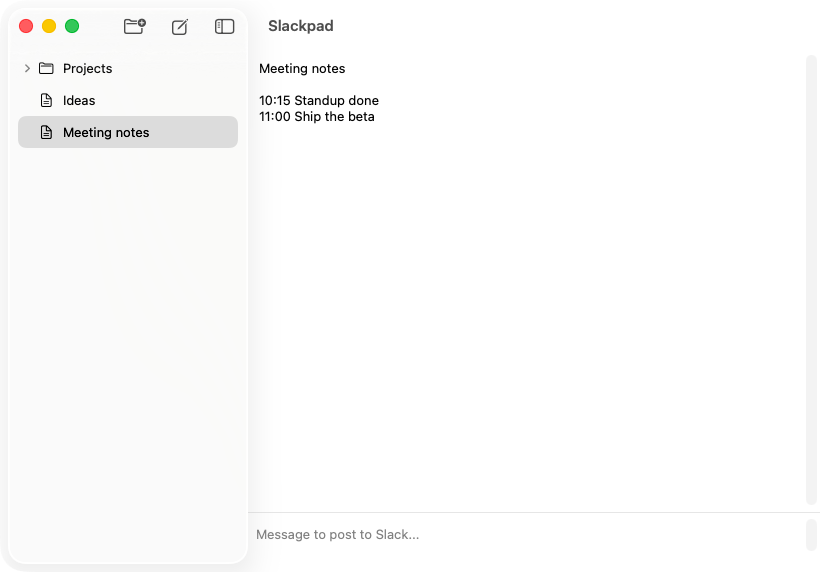
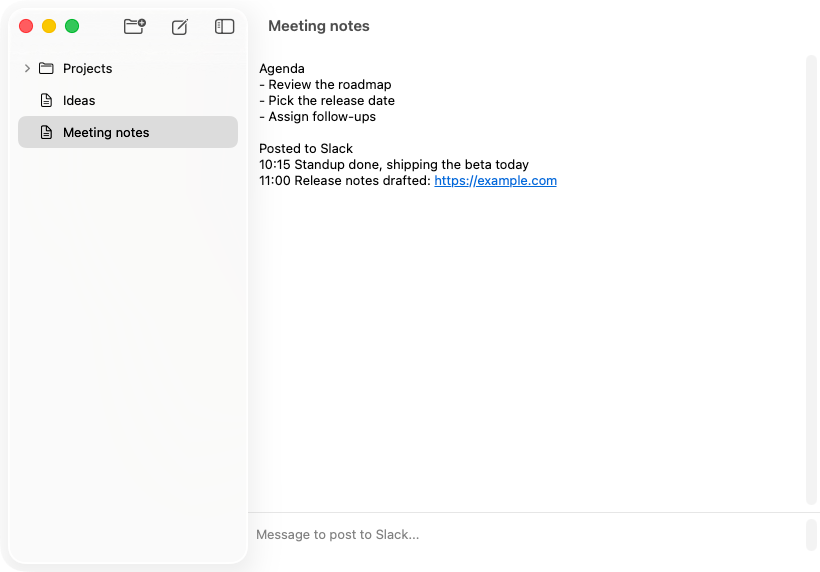
Refresh the main screenshot for the new naming model
The window title now shows the filename and the body no longer repeats it as
a heading line. Update the ContentView preview to a filename-titled preview
with structured demo content (heading, list, heading, Slack posts) and
regenerate docs/images/main.png to match.

Claude-Session: https://claude.ai/code/session_014pjqgobrTk5fwUCzDMKx6i

Changed region(s): [[0.3049, 0.0892, 0.6707, 0.3269], [0.3049, 0.0297, 0.4573, 0.0594]]

diff --git a/Slackpad/ContentView.swift b/Slackpad/ContentView.swift
@@ -39,18 +39,27 @@ struct ContentView: View {
     }
 }
 
-#Preview("Slackpad") {
+#Preview("Meeting notes") {
     let model = AppModel()
     let manager = FileManager.default
     let dir = URL(fileURLWithPath: NSTemporaryDirectory())
         .appendingPathComponent("SlackpadPreview-\(UUID().uuidString)")
     let projects = dir.appendingPathComponent("Projects")
     try? manager.createDirectory(at: projects, withIntermediateDirectories: true)
-    try? "Meeting notes\n\n10:15 Standup done\n11:00 Ship the beta"
-        .write(to: dir.appendingPathComponent("Meeting notes.txt"), atomically: true, encoding: .utf8)
-    try? "Ideas\n\n- keep notes as plain text\n- post to Slack while writing"
+    try? """
+    Agenda
+    - Review the roadmap
+    - Pick the release date
+    - Assign follow-ups
+
+    Posted to Slack
+    10:15 Standup done, shipping the beta today
+    11:00 Release notes drafted: https://example.com
+    """
+    .write(to: dir.appendingPathComponent("Meeting notes.txt"), atomically: true, encoding: .utf8)
+    try? "- keep notes as plain text\n- post to Slack while writing\n- add fuzzy search someday"
         .write(to: dir.appendingPathComponent("Ideas.txt"), atomically: true, encoding: .utf8)
-    try? "Slackpad\n\nWrite the README."
+    try? "Write the README\nAdd screenshots\nTag the first release"
         .write(to: projects.appendingPathComponent("Slackpad.txt"), atomically: true, encoding: .utf8)
 
     model.settings.webhookURL = "https://hooks.slack.com/services/preview"